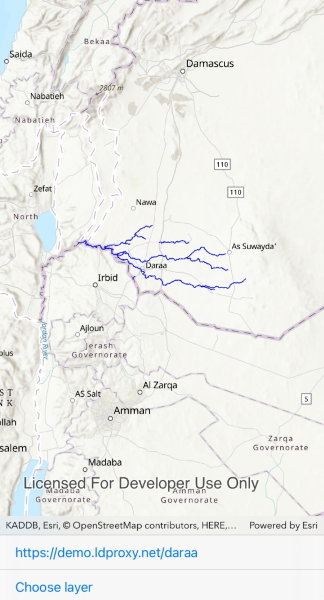
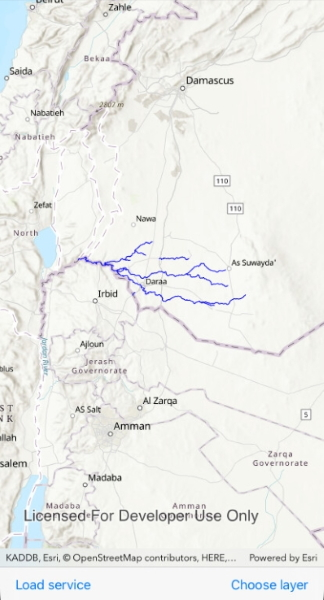
Updated iOS UI

diff --git a/src/iOS/Xamarin.iOS/Samples/Layers/BrowseOAFeatureService/BrowseOAFeatureService.cs b/src/iOS/Xamarin.iOS/Samples/Layers/BrowseOAFeatureService/BrowseOAFeatureService.cs
@@ -41,7 +41,7 @@ namespace ArcGISRuntimeXamarin.Samples.BrowseOAFeatureService
         private OgcFeatureServiceInfo _serviceInfo;
 
         // URL for the OGC feature service.
-        private const string ServiceUrl = "https://demo.ldproxy.net/daraa";
+        private const string _serviceUrl = "https://demo.ldproxy.net/daraa";
 
         public BrowseOAFeatureService()
         {
@@ -50,16 +50,13 @@ namespace ArcGISRuntimeXamarin.Samples.BrowseOAFeatureService
 
         private void Initialize()
         {
-            // Update the UI.
-            _loadServiceButton.Title = ServiceUrl;
-
             // Create the map with topographic basemap.
             _myMapView.Map = new Map(BasemapStyle.ArcGISTopographic);
 
-            LoadService();
+            LoadService(_serviceUrl);
         }
 
-        private async void LoadService()
+        private async void LoadService(string serviceUrl)
         {
             try
             {
@@ -68,7 +65,7 @@ namespace ArcGISRuntimeXamarin.Samples.BrowseOAFeatureService
                 _chooseLayersButton.Enabled = false;
 
                 // Create the OGC API - Features service using the landing URL.
-                OgcFeatureService service = new OgcFeatureService(new Uri(_loadServiceButton.Title));
+                OgcFeatureService service = new OgcFeatureService(new Uri(serviceUrl));
 
                 // Load the service.
                 await service.LoadAsync();
@@ -193,19 +190,14 @@ namespace ArcGISRuntimeXamarin.Samples.BrowseOAFeatureService
             _chooseLayersButton.Title = "Choose layer";
             _chooseLayersButton.Enabled = false;
 
-            _loadServiceButton = new UIBarButtonItem();
-
-            UIToolbar loadBar = new UIToolbar();
-            loadBar.TranslatesAutoresizingMaskIntoConstraints = false;
-            loadBar.Items = new[]
-            {
-                _loadServiceButton
-            };
+            _loadServiceButton = new UIBarButtonItem { Title = "Load service" };
 
             UIToolbar toolbar = new UIToolbar();
             toolbar.TranslatesAutoresizingMaskIntoConstraints = false;
             toolbar.Items = new[]
             {
+                _loadServiceButton,
+                UIBarButtonItem.FlexibleSpaceItem,
                 _chooseLayersButton
             };
 
@@ -215,22 +207,17 @@ namespace ArcGISRuntimeXamarin.Samples.BrowseOAFeatureService
             _loadingProgressBar.BackgroundColor = UIColor.FromWhiteAlpha(0, .6f);
 
             // Add the views.
-            View.AddSubviews(_myMapView, loadBar, toolbar, _loadingProgressBar);
+            View.AddSubviews(_myMapView, toolbar, _loadingProgressBar);
 
             // Lay out the views.
             NSLayoutConstraint.ActivateConstraints(new[]
             {
                 _myMapView.TopAnchor.ConstraintEqualTo(View.SafeAreaLayoutGuide.TopAnchor),
-                _myMapView.BottomAnchor.ConstraintEqualTo(loadBar.TopAnchor),
+                _myMapView.BottomAnchor.ConstraintEqualTo(toolbar.TopAnchor),
                 _myMapView.LeadingAnchor.ConstraintEqualTo(View.LeadingAnchor),
                 _myMapView.TrailingAnchor.ConstraintEqualTo(View.TrailingAnchor),
 
-                loadBar.TopAnchor.ConstraintEqualTo(_myMapView.BottomAnchor),
-                loadBar.BottomAnchor.ConstraintEqualTo(toolbar.TopAnchor),
-                loadBar.LeadingAnchor.ConstraintEqualTo(View.LeadingAnchor),
-                loadBar.TrailingAnchor.ConstraintEqualTo(View.TrailingAnchor),
-
-                toolbar.TopAnchor.ConstraintEqualTo(loadBar.BottomAnchor),
+                toolbar.TopAnchor.ConstraintEqualTo(_myMapView.BottomAnchor),
                 toolbar.LeadingAnchor.ConstraintEqualTo(View.LeadingAnchor),
                 toolbar.TrailingAnchor.ConstraintEqualTo(View.TrailingAnchor),
                 toolbar.BottomAnchor.ConstraintEqualTo(View.SafeAreaLayoutGuide.BottomAnchor),
@@ -265,7 +252,6 @@ namespace ArcGISRuntimeXamarin.Samples.BrowseOAFeatureService
                 AlertViewStyle = UIAlertViewStyle.PlainTextInput,
                 CancelButtonIndex = 1
             };
-            alert.GetTextField(0).Text = _loadServiceButton.Title;
             alert.AddButton("Load");
             alert.AddButton("Cancel");
 
@@ -273,8 +259,7 @@ namespace ArcGISRuntimeXamarin.Samples.BrowseOAFeatureService
             {
                 if (a.ButtonIndex != alert.CancelButtonIndex)
                 {
-                    _loadServiceButton.Title = alert.GetTextField(0).Text;
-                    LoadService();
+                    LoadService(alert.GetTextField(0).Text);
                 }
             };
             alert.Show();
